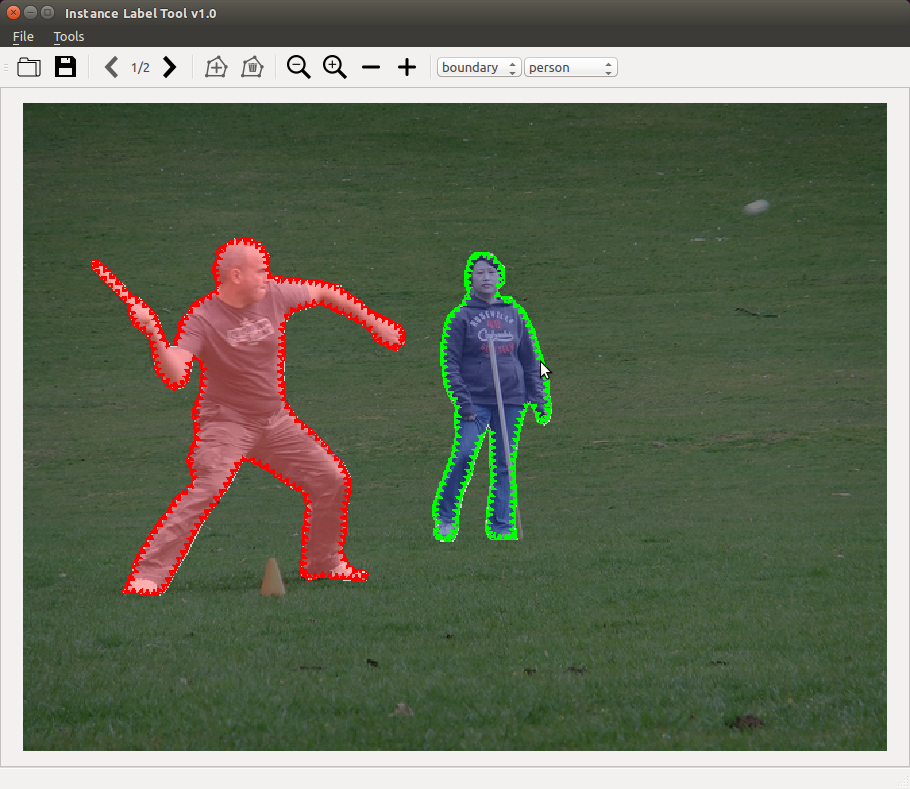
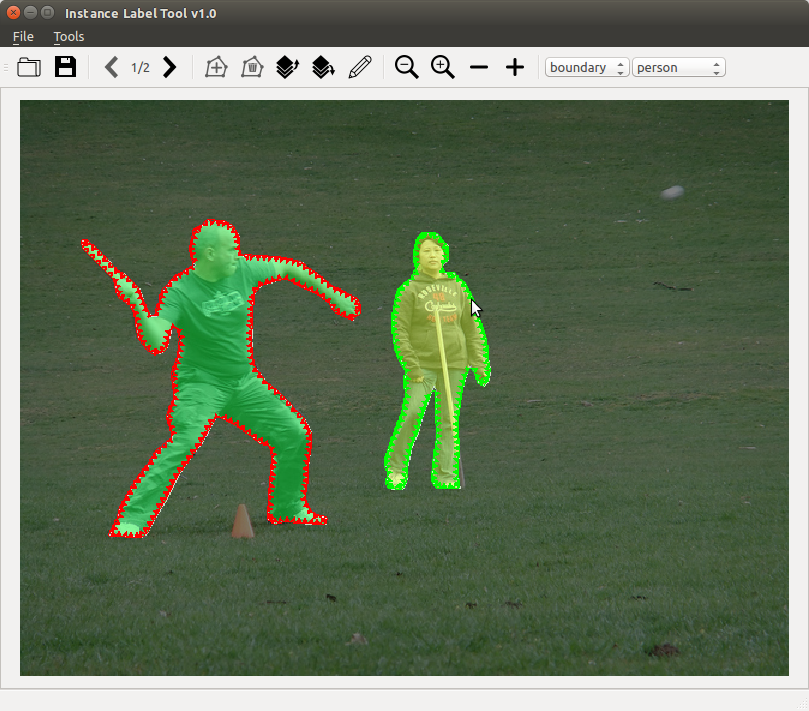
support instance label layer up/down and modify label name

diff --git a/lib/canvas.py b/lib/canvas.py
@@ -1258,20 +1258,69 @@ class Canvas(QtGui.QWidget):
         
 
     # Modify the label of a selected object
-    def mofifyLabel(self):
-        # TODO
-        pass
+    def modifyLabel(self):
+        # cannot do anything without labels
+        if (not self.annotation):
+            return
+
+        # cannot do anything without a single selected object
+        if (len(self.selObjs) != 1):
+            return
+
+        obj = self.annotation.objects[self.selObjs[-1]]
+        oldLabel = obj.label
+        newLabel = self.curLabel
+        self.annotation.objects[self.selObjs[-1]].label = self.curLabel
+
+        self.showMessage.emit('Change object {0} label {1} to {2}'.format(obj.id, oldLabel, newLabel)) 
+
+        self.setChanges()
+        self.update()
+
+    # Modify the layer level of the selected object
+    def modifyLayer(self, offset):
+        # cannot do anything without labels
+        if (not self.annotation):
+            return
+
+        # cannot do anything without a single selected object
+        if (len(self.selObjs) != 1):
+            return
+
+        # The selected object that is modified
+        obj = self.annotation.objects[self.selObjs[-1]]
+        # The index in the label list we are right now
+        oldidx = self.selObjs[-1]
+        # The index we want to move to
+        newidx = oldidx + offset
+
+        # Make sure not exceed zero and the list lenght
+        newidx = min(max(newidx, 0), len(self.annotation.objects) - 1)
+
+        # If new and old idx are equal, there is nothing to do
+        if (oldidx == newidx):
+            return
+
+        # Move the entry in the labels list
+        self.annotation.objects[newidx], self.annotation.objects[oldidx] = \
+            self.annotation.objects[oldidx], self.annotation.objects[newidx]
+
+        # Update the selected object to the new index
+        self.selObjs[-1] = newidx
+        
+        self.showMessage.emit('Move object {0} with label {1} to layer {2}'.format(obj.id, obj.label, newidx))
+
+        self.setChanges()
 
     # Move a object layer up
     def layerUp(self):
-        # TODO
-        pass
+        self.modifyLayer(+1)
+        self.update()
 
     # Move a object layer down
     def layerDown(self):
-        # TODO
-        pass
-
+        self.modifyLayer(-1)
+        self.update()
 
 	# Increase label transparency
     def minus(self):

diff --git a/InstanceLabelTool.py b/InstanceLabelTool.py
@@ -147,6 +147,26 @@ class InstanceLabelTool(QtGui.QMainWindow):
         deleteObjAction.setEnabled(False)
         self.canvas.actSelObj.append(deleteObjAction)
 
+        # Layer up the selected object
+        layerupObjAction = QtGui.QAction(QtGui.QIcon(os.path.join(iconDir, 'layerup.png')), '&Tools', self)
+        layerupObjAction.setShortcuts([QtGui.QKeySequence.MoveToPreviousLine])
+        self.setTip(layerupObjAction, 'Layer up')
+        layerupObjAction.triggered.connect(self.canvas.layerUp)
+        self.toolbar.addAction(layerupObjAction)
+
+        # Layer down the selected object
+        layerdownObjAction = QtGui.QAction(QtGui.QIcon(os.path.join(iconDir, 'layerdown.png')), '&Tools', self)
+        layerdownObjAction.setShortcuts([QtGui.QKeySequence.MoveToNextLine])
+        self.setTip(layerdownObjAction, 'Layer down')
+        layerdownObjAction.triggered.connect(self.canvas.layerDown)
+        self.toolbar.addAction(layerdownObjAction)
+
+        # Modify the selected object label name
+        modifyLabelAction = QtGui.QAction(QtGui.QIcon(os.path.join(iconDir, 'modify.png')), '&Tools', self)
+        self.setTip(modifyLabelAction, 'Modify label name')
+        modifyLabelAction.triggered.connect(self.canvas.modifyLabel)
+        self.toolbar.addAction(modifyLabelAction)
+
         self.toolbar.addSeparator()
         
         # Zoom out
@@ -214,7 +234,10 @@ class InstanceLabelTool(QtGui.QMainWindow):
         self.show()
 
     def setTip(self, action, tip):
-        tip += " (Hotkeys: '" + "', '".join([str(s.toString()) for s in action.shortcuts()]) + "')"
+        shortcuts = "', '".join([str(s.toString()) for s in action.shortcuts()])
+        if (not shortcuts):
+            shortcuts = 'none'
+        tip += " (Hotkeys: '" + shortcuts + "')"
         action.setStatusTip(tip)
         action.setToolTip(tip)
 

diff --git a/README.md b/README.md
@@ -11,7 +11,6 @@ The motivation of developing this Instance Lable Tool comes from the demand to l
 ## TODO
 - [ ] Support converting to COCO json format
 - [ ] Fix status bar's message display
-- [ ] Support instnce label layer up/down
  
 ## Screenshot
 
@@ -65,8 +64,8 @@ This tool tests sucessfully on Ubuntu 16.04.
 
 |  Hotkey      | Action |
 |:-------------:|------|
-| - | Decrease instance labels transparency    |
-| + | Increase instance transparency    |
+| - | Decrease instance labels non-transparency    |
+| + | Increase instance non-transparency    |
 | ← | Previous image |
 | → | Next image   |
 | o | Open the imagelist.json file|
@@ -76,7 +75,7 @@ This tool tests sucessfully on Ubuntu 16.04.
 | 0 | Temporarily not show instance labels   |
 | w/s/a/d | Move up/down/left/right the canvas   |
 | Ctrl + s | Save the modifies|
-| Ctrl + Left Click | Select or deselect o instance   |
+| Ctrl + Left Click | Select or deselect a instance   |
 | Shift + Left Click | Delete a point of the closed polygon   |
 | Left Click | Add a point to the drawing polygon, select a point and drag, or change occlusion boundary direction.   |
 | Right Click | Delete the lastest point of the drawing polygon   |
